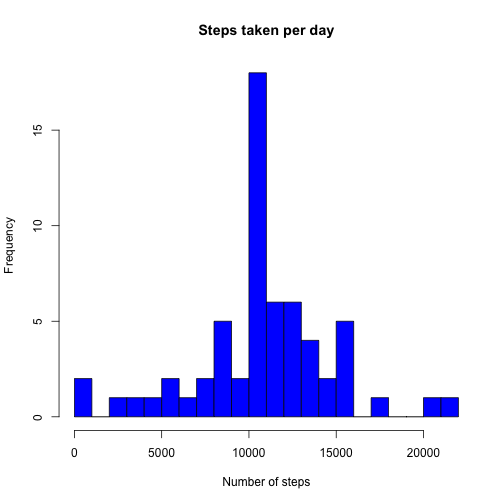
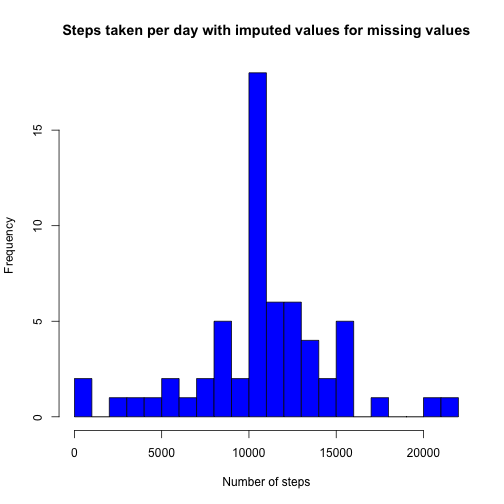
Updated some of the text explaining the computations

Changed region(s): [[0.119, 0.0298, 0.9524, 0.0893]]

diff --git a/PA1_template.html b/PA1_template.html
@@ -254,7 +254,7 @@ medianStepsPerDay &lt;- round(median(byDaySummary$stepsPerDay))
 
 <p>Turns out that there are 2304 missing values in the steps column.</p>
 
-<p>The next piece of codes replaces missing steps values with the average for that interval across days and places it in a data frame called dfExtension</p>
+<p>The next piece of codes replaces missing steps values with the average for that interval across all days and places it in a data frame called dfImputed</p>
 
 <pre><code class="r">locationNA &lt;- is.na(df$steps)
 intervalMeansExtension &lt;- as.data.frame(rep(byIntervalSummary$averageStepsPerInterval, 
@@ -270,11 +270,11 @@ dfImputed$steps[locationNA] &lt;- dfImputed$intervalMeansExtension[locationNA]
     na.rm = TRUE))
 </code></pre>
 
-<pre><code class="r">hist(byDaySummaryImputed$stepsPerDay, breaks = 30, col = &quot;blue&quot;, main = &quot;Steps taken per day&quot;, 
+<pre><code class="r">hist(byDaySummaryImputed$stepsPerDay, breaks = 30, col = &quot;blue&quot;, main = &quot;Steps taken per day with imputed values for missing values&quot;, 
     xlab = &quot;Number of steps&quot;)
 </code></pre>
 
[2 lines of base64/hex data omitted]
 
 <pre><code class="r">meanStepsPerDayImputed &lt;- round(mean(byDaySummaryImputed$stepsPerDay))
 medianStepsPerDayImputed &lt;- round(median(byDaySummaryImputed$stepsPerDay))
@@ -290,7 +290,7 @@ medianStepsPerDayImputed &lt;- round(median(byDaySummaryImputed$stepsPerDay))
 
 <h2>Are there differences in activity patterns between weekdays and weekends?</h2>
 
-<p>Now we want to compare acticity difference between weekdays and weekends. First we need to create a suitable factor variable from the date column.</p>
+<p>Now we want to compare activity difference between weekdays and weekends. First we need to create a suitable factor variable from the date column.</p>
 
 <pre><code class="r">df$DayOfWeek &lt;- as.factor(weekdays(as.Date(df$date)))
 levels(df$DayOfWeek) &lt;- c(&quot;Weekday&quot;, &quot;Weekday&quot;, &quot;Weekend&quot;, &quot;Weekend&quot;, &quot;Weekday&quot;, 

diff --git a/PA1_template.md b/PA1_template.md
@@ -94,7 +94,7 @@ numberOfMissingValues <- sum(is.na(df$steps))
 
 Turns out that there are 2304 missing values in the steps column.
 
-The next piece of codes replaces missing steps values with the average for that interval across days and places it in a data frame called dfExtension
+The next piece of codes replaces missing steps values with the average for that interval across all days and places it in a data frame called dfImputed
 
 
 
@@ -119,7 +119,7 @@ byDaySummaryImputed <- ddply(dfImputed, .(date), summarise, stepsPerDay = sum(st
 
 
 ```r
-hist(byDaySummaryImputed$stepsPerDay, breaks = 30, col = "blue", main = "Steps taken per day", 
+hist(byDaySummaryImputed$stepsPerDay, breaks = 30, col = "blue", main = "Steps taken per day with imputed values for missing values", 
     xlab = "Number of steps")
 ```
 
@@ -141,7 +141,7 @@ This is significantly different from our original results when we ignored NAs. B
 
 ## Are there differences in activity patterns between weekdays and weekends?
 
-Now we want to compare acticity difference between weekdays and weekends. First we need to create a suitable factor variable from the date column.
+Now we want to compare activity difference between weekdays and weekends. First we need to create a suitable factor variable from the date column.
 
 
 ```r
